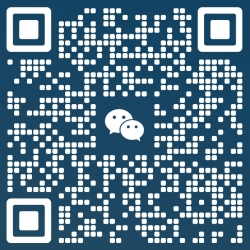
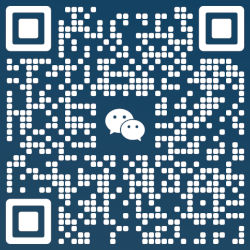
Change signature for wechat name update

diff --git a/firma_Richard.html b/firma_Richard.html
@@ -5,7 +5,7 @@
 <strong>Email:&nbsp;</strong><a href="mailto:richard@cimab.cu" style="color: rgb(0, 0, 128); display: inline; background-color: rgba(0, 0, 0, 0);">richard@cimab.cu</a><br>
 <strong>Phone:&nbsp;</strong><a href="tel:+5350948772" style="color: rgb(0, 0, 128); display: inline; background-color: rgba(0, 0, 0, 0);">(+53)50948772</a><br>
 <strong>Whatsapp:&nbsp;</strong><a href="https://wa.me/5350948772" target="_blank" style="color: rgb(0, 0, 128); display: inline; background-color: rgba(0, 0, 0, 0);">(+53)50948772</a><br>
-<strong>WeChat:&nbsp;</strong><a href="https://u.wechat.com/kDnxd4RG15P9Hb8ffv5Kr70" target="_blank" style="color: rgb(0, 0, 128); display: inline; background-color: rgba(0, 0, 0, 0);">(+53)50948772</a>
+<strong>WeChat:&nbsp;</strong><a href="https://u.wechat.com/kHk89JuSEjH8BS11sPMFVIs" target="_blank" style="color: rgb(0, 0, 128); display: inline; background-color: rgba(0, 0, 0, 0);">(+53)50948772</a>
 </span></p></td><td width="171">
 <p style="margin: 4px 0.25cm 0.0001pt; font-size: 12pt;"><span><img src="http://richardcimab.github.io/mailsignature/wechat202402.jpg" style="border: none; vertical-align: bottom;" onerror="" width="85" height="85" border="1"></span></p></td></tr><tr><td width="229">
 <p style="margin: 0cm 0cm 0.0001pt; font-size: 12pt;"><span><img src="http://richardcimab.github.io/mailsignature/cimab_logo01.png" style="border: none; vertical-align: middle;" onerror="" width="229" height="78" border="0"></span></p></td>
